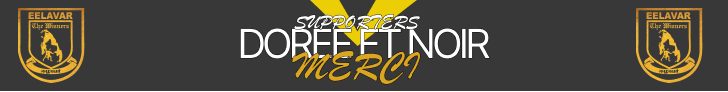
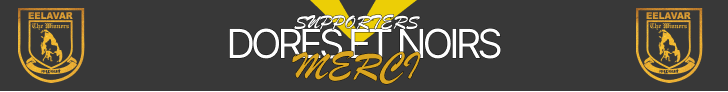
correction ortographe

Changed region(s): [[0.3022, 0.3043, 0.6951, 0.6522], [0.4231, 0.1957, 0.4533, 0.2609]]

diff --git a/Histoire.html b/Histoire.html
@@ -144,7 +144,7 @@
                     <div class="gauche"></div>
                     <div class="droite"></div>
                 </div>
-                <p>Le CS Eelavar a été fondé en 1994 par une communauté Tamouls passionnée par le sport et la culture. Ce club incarne les valeurs de solidarité et de passion, avec un engagement fort envers sa communauté. En moins de trois décennies, le CS Eelavar est devenu un pilier incontournable pour les Tamouls de la région, accueillant des centaines de licenciés et cultivant un esprit de camaraderie et de dévouement.            </p>
+                <p>Le CS Eelavar a été fondé en 1994 par une communauté Tamoule passionnée par le sport et la culture. Ce club incarne les valeurs de solidarité et de passion, avec un engagement fort envers sa communauté. En moins de trois décennies, le CS Eelavar est devenu un pilier incontournable pour les Tamouls de la région, accueillant des centaines de licenciés et cultivant un esprit de camaraderie et de dévouement.            </p>
                 <p>Les priorités du CS Eelavar se situent dans la formation de ses jeunes footballeurs et footballeuses, dans l’épanouissement de chaque licencié dans sa pratique sportive et ses missions au sein du
                     club, dans le développement de ses compétences et pratiques afin d’assumer pleinement son rôle tant au niveau sportif que social.</p>
             </div>
@@ -157,7 +157,7 @@
                     <div class="droite"></div>
                 </div>
 
-                <p>En 1994, une communauté Tamouls passionnée par le sport et la culture se réunit avec un rêve commun : créer un club qui incarnerait leurs valeurs de solidarité et de passion. C'est ainsi que naquit le CS Eelavar, un club sportif qui allait devenir un pilier pour la communauté Tamouls en France. Dès ses premiers jours, le club a été marqué par un fort engagement envers sa communauté, un trait distinctif qui le définit encore aujourd'hui.
+                <p>En 1994, une communauté Tamoule passionnée par le sport et la culture se réunit avec un rêve commun : créer un club qui incarnerait leurs valeurs de solidarité et de passion. C'est ainsi que naquit le CS Eelavar, un club sportif qui allait devenir un pilier pour la communauté Tamouls en France. Dès ses premiers jours, le club a été marqué par un fort engagement envers sa communauté, un trait distinctif qui le définit encore aujourd'hui.
                 </p>
                 <p>
                     Les débuts furent loin d'être faciles. Le CS Eelavar dut surmonter de nombreux défis, notamment des infrastructures limitées et des ressources financières restreintes. Cependant, la détermination inébranlable des membres et le soutien indéfectible de la communauté locale permirent au club de surmonter ces obstacles. Petit à petit, le CS Eelavar commença à se faire un nom, se distinguant par son esprit combatif et sa volonté de fer.

diff --git a/Engagement.html b/Engagement.html
@@ -127,11 +127,11 @@
             <div id="ClubNav">
                 <p>Présentation du club</p>
                 <div id="buttonClub">
-                    <p>Engagement</p>
+                    <p>Engagements</p>
                 </div>
             </div>
             <div id="NavTXTclub">
-                <h1> Présentation de nos <br> engagement Cs Eelavar</h1>
+                <h1> Présentation de nos <br> engagements Cs Eelavar</h1>
                 <div id="txtnavclub">
                     <img src="img/Engagement.jpeg" alt="">
                 </div>
